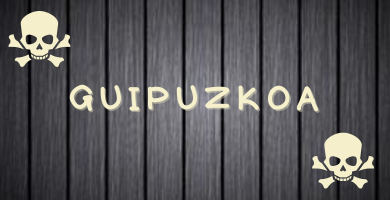
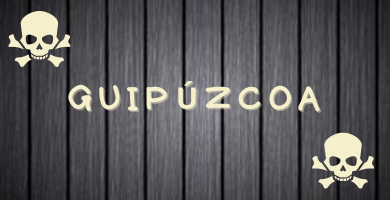
cambios en jumplinks y cachés

Changed region(s): [[0.1538, 0.39, 0.8308, 0.57]]

diff --git a/src/front/js/pages/home.js b/src/front/js/pages/home.js
@@ -14,25 +14,26 @@ export const Home = () => {
     backgroundImage: `url(${mapaPirata})`,
   };
 
+
   const elements = document.querySelectorAll('.scroll-animation');
 
   const checkScroll = () => {
     const elements = document.getElementsByClassName('scroll-animation');
-    
+
     for (let i = 0; i < elements.length; i++) {
       const element = elements[i];
       const position = element.getBoundingClientRect().top;
       const screenHeight = window.innerHeight;
-      
+
       if (position < screenHeight * 0.8) {
         element.classList.add('scroll-triggered');
-        
+
         if (i % 2 === 0) {
           element.classList.add('left');
         } else {
           element.classList.add('right');
         }
-        
+
         // Guardar el estado del elemento en localStorage
         localStorage.setItem(`scrollElement-${i}`, 'visible');
       }
@@ -41,7 +42,7 @@ export const Home = () => {
 
   window.addEventListener('scroll', checkScroll);
 
-  
+
 
 
   return (
@@ -122,15 +123,15 @@ export const Home = () => {
 
 
       </div>
-      <section className="mx-auto homesection mt-5" id="historia">
+      <section className="mx-auto homesection mt-5" >
         <div className=" container py-5">
           <h1 className="title mt-4 text-center mb-5" >La épica búsqueda de tesoros ocultos</h1>
           <p>Desde tiempos inmemoriales, los seres humanos han sentido una fascinación por la búsqueda de tesoros ocultos. Ya sea por la promesa de riqueza o por la emoción de la aventura, la idea de descubrir algo valioso que está escondido es un atractivo universal.</p>
           <img className=" imagenhome d-block mx-auto my-5 " src="https://upload.wikimedia.org/wikipedia/commons/c/ce/Kazimierz_Nowak_in_jungle_2.jpg"></img>
           <p>A lo largo de los años, esta búsqueda ha tomado muchas formas diferentes. Desde los cazadores de tesoros que buscaban oro y plata en el Salvaje Oeste hasta los arqueólogos que exploran las antiguas tumbas egipcias, la humanidad siempre ha estado en busca de lo oculto.</p>
           <p>Pero en los últimos tiempos, la búsqueda de caches se ha convertido en una forma popular y emocionante de encontrar tesoros ocultos. A diferencia de los cazadores de tesoros del pasado, los buscadores de caches utilizan la tecnología moderna para encontrar los tesoros escondidos.</p>
-          <p id="faqs">La búsqueda de caches comenzó como un juego entre amigos en el año 2000. Utilizando tecnología GPS, un grupo de amigos escondió un tesoro y compartió las coordenadas con otros amigos en línea. La idea rápidamente se extendió y hoy en día, millones de personas en todo el mundo buscan caches escondidos en lugares remotos.</p>
-          <img className=" imagenhome d-block mx-auto my-5 " src="https://garmin.com.pe/wp-content/uploads/2020/10/OVERLANDER.jpg"></img>
+          <p >La búsqueda de caches comenzó como un juego entre amigos en el año 2000. Utilizando tecnología GPS, un grupo de amigos escondió un tesoro y compartió las coordenadas con otros amigos en línea. La idea rápidamente se extendió y hoy en día, millones de personas en todo el mundo buscan caches escondidos en lugares remotos.</p>
+          <img className=" imagenhome d-block mx-auto my-5 " id="history-section" src="https://garmin.com.pe/wp-content/uploads/2020/10/OVERLANDER.jpg"></img>
           <p>La emoción de la búsqueda, la satisfacción de encontrar el tesoro y la emoción de compartir tus descubrimientos con otros buscadores de caches hacen que esta actividad sea realmente épica. ¿Te unirás a la búsqueda?</p>
         </div>
       </section >
@@ -138,7 +139,7 @@ export const Home = () => {
         <h1 className="title mt-2 text-center mb-4"  >Preguntas frecuentes sobre la búsqueda de cachés</h1>
         <div class=" container accordion" id="accordionExample">
           <div className="  accordion-item">
-            <h2 class="text-center accordion-header">
+            <h2 class="text-center accordion-header" >
               <button className="  accordion-button" type="button" data-bs-toggle="collapse" data-bs-target="#collapseOne" aria-expanded="true" aria-controls="collapseOne">
                 ¿Qué es la búsqueda de cachés?
               </button>
@@ -149,17 +150,17 @@ export const Home = () => {
             </div>
           </div>
           <div class="accordion-item">
-            <h2 class="accordion-header">
+            <h2 class="accordion-header" id="faqs-section" >
               <button class="accordion-button collapsed" type="button" data-bs-toggle="collapse" data-bs-target="#collapseTwo" aria-expanded="false" aria-controls="collapseTwo">
                 ¿Cómo encuentro una caché?
               </button>
             </h2>
-            <div id="collapseTwo" class="accordion-collapse collapse" data-bs-parent="#accordionExample">
+            <div  id="collapseTwo" class="accordion-collapse collapse" data-bs-parent="#accordionExample">
               <div class="accordion-body">
                 Primero debes buscar la ubicación de la cache utilizando las coordenadas proporcionadas en la página web de geocaching. Luego, debes caminar hacia el lugar y buscar el caché en las cercanías utilizando las pistas y descripciones proporcionadas en la página.            </div>
             </div>
           </div>
-          <div class=" accordion-item">
+          <div class=" accordion-item" id="faqs-section">
             <h2 class="accordion-header">
               <button class="accordion-button collapsed" type="button" data-bs-toggle="collapse" data-bs-target="#collapseThree" aria-expanded="false" aria-controls="collapseThree">
                 ¿Qué objetos puedo encontrar en un caché?

diff --git a/src/front/js/component/navbarNuevo.js b/src/front/js/component/navbarNuevo.js
@@ -23,6 +23,22 @@ export const NavbarNuevo = () => {
     const offcanvasRef = useRef(null);
     const [isOffcanvasOpen, setIsOffcanvasOpen] = useState(false);
 
+    useEffect(() => {
+        const urlParams = new URLSearchParams(window.location.search);
+        const targetSection = urlParams.get('section');
+        if (targetSection) {
+          scrollToSection(targetSection);
+        }
+      }, []);
+    
+      function scrollToSection(sectionId) {
+        const section = document.getElementById(sectionId);
+        if (section) {
+          section.scrollIntoView({ behavior: 'smooth' });
+        }
+      }
+    
+
     const cerrarOffcanvas = () => {
         if (offcanvasRef.current) {
           const offcanvas = bootstrap.Offcanvas.getInstance(offcanvasRef.current);
@@ -225,12 +241,12 @@ export const NavbarNuevo = () => {
                                 </Link>
                             </li>
                             <li className="nav-item d-none d-lg-block">
-                                <Link to="/" className="elemento nav-link active" aria-current="page" onClick={() => window(0, 0)}>
+                                <Link to="/?section=history-section" className="elemento nav-link active" aria-current="page" onClick={() => window(0, 0)}>
                                     Historia
                                 </Link>
                             </li>
                             <li className="nav-item d-none d-lg-block">
-                                <Link to="/" className="elemento nav-link active" aria-current="page" onClick={() => window(0, 0)}>
+                                <Link to="/?section=faqs-section" className="elemento nav-link active" aria-current="page" onClick={() => window(0, 0)}>
                                     Faqs
                                 </Link>
                             </li>
@@ -312,8 +328,8 @@ export const NavbarNuevo = () => {
                                     <Buscador onShowSearchChange={handleShowSearchMobile} cerrarOffcanvas={cerrarOffcanvas}/>) : null}
                             </>) : (<>
                                 <a class="espaciado dropdown-item" href="/" onClick={() => window(0, 0)}>Home</a>
-                                <a class="espaciado dropdown-item" href="/" onClick={() => window(0, 0)} >Historia</a>
-                                <a class="espaciado dropdown-item" href="/" onClick={() => window(0, 0)} >Faqs</a>
+                                <a class="espaciado dropdown-item" href="/?section=history-section" onClick={() => window(0, 0)} >Historia</a>
+                                <a class="espaciado dropdown-item" href="/?section=faqs-section" onClick={() => window(0, 0)} >Faqs</a>
 
 
                                 <hr className="dropdown-divider" />

diff --git a/src/front/js/pages/cachesSegmentacion.js b/src/front/js/pages/cachesSegmentacion.js
@@ -203,7 +203,7 @@ export const CachesSegmentacion = () => {
                 ) : null}
                 {params.tipos === "País vasco" ? (
                     <div className="container row row-cols-lg-3 g-3 mx-auto mb-4">
-                        <ClustersCaches link="/caches-provincias/Guipúzkoa" image={Guipuzkoa} onClick={() => window(0, 0)} />
+                        <ClustersCaches link="/caches-provincias/Guipúzcoa" image={Guipuzkoa} onClick={() => window(0, 0)} />
                         <ClustersCaches link="/caches-provincias/Álava" image={Alava} onClick={() => window(0, 0)} />
                         <ClustersCaches link="/caches-provincias/Vizcaya" image={Vizcaya} onClick={() => window(0, 0)} />
                     </div>
